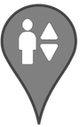
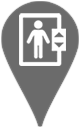
Preklad&zmena_nastaveni&uprava_ikon
- Přidán překlad pro angličtinu a slovenštinu
- Přidán popisek "FIXME I18N" u překladů, které házely chybu (asi posledních 5 překladů)
- Úprava ikon míst na mapě pro výtah, platformu, bránu a defaultní ikonu
- Úpraven vzhled nastavení (text je teď uprostřed, brava nastavena na oranžovo)

diff --git a/lib/screens/app/information_screen.dart b/lib/screens/app/information_screen.dart
@@ -26,13 +26,14 @@ class InformationScreen extends StatelessWidget {
         theme.textTheme.titleLarge!.copyWith(color: foregroundColor);
 
     String tooltipMessage() => Intl.message(
-          'Obnovit seznam míst',
+          AppLocalizations.of(context)!.languageSettingsTileLabel,
           name: 'InformationScreenState_tooltipMessage',
           args: [],
           desc: 'A tooltip for refresh button',
         );
 
-    String refreshDatabaseMessage() => Intl.message('Obnovuji databázi',
+    String refreshDatabaseMessage() => Intl.message(
+        AppLocalizations.of(context)!.refreshDatabaseMessage,
         name: 'InformationScreenState_refreshDatabaseMessage',
         args: [],
         desc: 'A snackbar message that informs user about database refresh');
@@ -40,7 +41,7 @@ class InformationScreen extends StatelessWidget {
     return Scaffold(
       appBar: AppBar(
         title: Center(
-          child: Text(AppLocalizations.of(context)!.settingsAppBarTitle),
+          child: Text(AppLocalizations.of(context)!.aboutApplicationLabel),
         ),
         actions: <Widget>[
           IconButton(
@@ -81,9 +82,11 @@ class InformationScreen extends StatelessWidget {
                               infoTile(
                                 context: context,
                                 leadingText:
-                                    'EuroKlíčenka je majetkem Přírodovědecké fakulty ',
-                                hyperText: 'Ostravské univerzity',
-                                trailingText: ' v\u{00A0}Ostravě.',
+                                    AppLocalizations.of(context)!.leadingText1,
+                                hyperText:
+                                    AppLocalizations.of(context)!.hyperText1,
+                                trailingText:
+                                    '${AppLocalizations.of(context)!.trailingText1a}${'\u{00A0}'}${AppLocalizations.of(context)!.trailingText1b}',
                                 imageFilePath: context.isAppInDarkMode
                                     ? 'assets/images/logo_prf_dark.png'
                                     : 'assets/images/logo_prf_light.png',
@@ -98,11 +101,11 @@ class InformationScreen extends StatelessWidget {
                               infoTile(
                                 context: context,
                                 leadingText:
-                                    'Vývoj nové aplikace provedl tým studentů z\u{00A0}',
+                                    '${AppLocalizations.of(context)!.leadingText2}${'\u{00A0}'}',
                                 hyperText:
-                                    'katedry informatiky a\u{00A0}počítačů',
+                                    '${'\u{00A0}'}${AppLocalizations.of(context)!.hyperText2}',
                                 trailingText:
-                                    ' OU, do kterého patří Barbora Hajíčková a\u{00A0}Ondřej Surý.  Vývoj původní aplikace provedl Jan Sonnek, Jan Kunetka a\u{00A0}Ondřej Sládek.',
+                                    '${AppLocalizations.of(context)!.trailingText2a}${'\u{00A0}'}${AppLocalizations.of(context)!.trailingText2b}${'\u{00A0}'}${AppLocalizations.of(context)!.trailingText2c}',
                                 imageFilePath: 'assets/images/logo_kip.png',
                                 launchURL: universityOfOstravaKIPURL,
                               ),
@@ -120,9 +123,10 @@ class InformationScreen extends StatelessWidget {
                                 ) =>
                                     infoTile(
                                   context: context,
-                                  leadingText:
-                                      'Data o umístění eurozámků jsou veřejně dostupná na ',
-                                  hyperText: 'oficiálních stránkách Euroklíče',
+                                  leadingText: AppLocalizations.of(context)!
+                                      .leadingText3,
+                                  hyperText:
+                                      AppLocalizations.of(context)!.hyperText3,
                                   imageFilePath:
                                       'assets/images/logo_eurokey.png',
                                   launchURL: aboutEuroKeyWebURL,
@@ -142,10 +146,10 @@ class InformationScreen extends StatelessWidget {
                 thickness: 0.5,
               ),
               const SizedBox(height: 1),
-              const Text(
-                'Copyright © Ostravská univerzita',
+              Text(
+                AppLocalizations.of(context)!.copyrightLabel,
                 textAlign: TextAlign.left,
-                style: TextStyle(
+                style: const TextStyle(
                   fontSize: 12,
                 ),
               ),

diff --git a/lib/screens/app/settings_screen.dart b/lib/screens/app/settings_screen.dart
@@ -28,6 +28,7 @@ class _SettingsScreenState extends State<SettingsScreen> {
     // _initIntl();
   }
 
+  // ignore: unused_element
   Future<void> _initIntl() async {
     final Locale appLocale = Localizations.localeOf(context);
     await initializeDateFormatting(appLocale.toString());
@@ -84,16 +85,18 @@ class _SettingsScreenState extends State<SettingsScreen> {
               ],
             ),
             SettingsSection(
-              title: const Text("Aplikace"), // FIXME i18n
+              title: Text(AppLocalizations.of(context)!.applicationLabel),
               tiles: [
                 SettingsTile.navigation(
-                  title: const Text("Průvodce aplikací"), // FIXME i18n
+                  title:
+                      Text(AppLocalizations.of(context)!.applicationGuideLabel),
                   onPressed: (context) async {
                     await Navigator.of(context).pushNamed("/guide");
                   },
                 ),
                 SettingsTile.navigation(
-                  title: const Text("O aplikaci"), // FIXME i18n
+                  title:
+                      Text(AppLocalizations.of(context)!.aboutApplicationLabel),
                   onPressed: (context) async {
                     await Navigator.of(context).push(
                       MaterialPageRoute(
@@ -105,11 +108,10 @@ class _SettingsScreenState extends State<SettingsScreen> {
               ],
             ),
             SettingsSection(
-              title: const Text("Zdroj dat"),
+              title: Text(AppLocalizations.of(context)!.dataSourceLabel),
               tiles: [
                 SettingsTile.navigation(
-                  title: const Text(
-                      "Datum poslední aktualizace databáze"), // FIXME i18n
+                  title: Text(AppLocalizations.of(context)!.dateOfUpdate),
                   value: Consumer<EurolockProvider>(
                     builder: (
                       context,
@@ -120,6 +122,10 @@ class _SettingsScreenState extends State<SettingsScreen> {
                           .format(eurolockProvider.lastModified);
                       return Text(
                         lastModified,
+                        textAlign: TextAlign.center,
+                        style: const TextStyle(
+                          fontSize: 12,
+                        ),
                       );
                     },
                   ),
@@ -138,8 +144,12 @@ class _SettingsScreenState extends State<SettingsScreen> {
 
     return Scaffold(
       appBar: AppBar(
-        title: Text(AppLocalizations.of(context)!.settingsLabel,
-            textAlign: TextAlign.center),
+        title: Text(AppLocalizations.of(context)!.settingsLabel),
+        backgroundColor: const Color.fromARGB(245, 255, 107, 38),
+        foregroundColor: const Color.fromARGB(255, 255, 255, 255),
+        elevation: 5.5,
+        shadowColor: const Color.fromARGB(255, 209, 209, 209),
+        centerTitle: true,
       ),
       body: settingsList(),
     );
@@ -159,14 +169,19 @@ class LanguagePickerScreen extends StatelessWidget {
   @override
   Widget build(BuildContext context) {
     return Scaffold(
-      appBar: AppBar(title: const Text('Languages')), // FIXME i18n
+      appBar: AppBar(
+        title: Text(AppLocalizations.of(context)!.languagesLabel),
+        backgroundColor: const Color.fromARGB(245, 255, 107, 38),
+        foregroundColor: const Color.fromARGB(255, 255, 255, 255),
+        elevation: 5.5,
+        shadowColor: const Color.fromARGB(255, 209, 209, 209),
+        centerTitle: true,
+      ),
       body: SettingsList(
         sections: [
           SettingsSection(
-            title: const Text('Select the language you want'), // FIXME i18n
             tiles: languages.keys.map((e) {
               final language = languages[e];
-
               return SettingsTile(
                 title: Text(language!),
                 onPressed: (_) {

diff --git a/lib/screens/intro_guide_screen.dart b/lib/screens/intro_guide_screen.dart
@@ -6,6 +6,7 @@ import 'package:eurokey2/features/internet_access/allowed_urls.dart';
 import 'package:eurokey2/features/internet_access/http_communicator.dart';
 import 'package:eurokey2/providers/preferences_provider.dart';
 import 'package:eurokey2/utils/build_context_extensions.dart';
+import 'package:flutter_gen/gen_l10n/app_localizations.dart';
 import 'package:flutter/material.dart';
 import 'package:introduction_screen/introduction_screen.dart';
 import 'package:provider/provider.dart';
@@ -24,46 +25,42 @@ class _OnBoardScreenState extends State<GuideScreen> {
       child: IntroductionScreen(
         pages: [
           PageViewModel(
-            title: 'VÍTEJTE V EUROKLÍČENCE',
+            title: AppLocalizations.of(context)!.welcomeGuidLabel,
             image: _buildImage('assets/images/logo_key.png', context),
-            body:
-                'Díky této aplikace máte možnost najít \nv České republice všechna eurozámkem osazená sociální zařízení.',
+            body: AppLocalizations.of(context)!.body1GuidLabel,
             footer: _buildButton(
               onPressed: () => openURL(url: aboutEuroKeyURL),
-              text: 'Co je to eurozámek?',
+              text: AppLocalizations.of(context)!.whatIsEurokeyringGuidLabel,
             ),
             decoration: _getDecoration(),
           ),
           PageViewModel(
-            title: 'MAPA',
+            title: AppLocalizations.of(context)!.mapTitleGuid,
             image: _buildImage(
               context.isAppInDarkMode
                   ? 'assets/images/img_guide_map_dark.jpg'
                   : 'assets/images/img_guide_map_light.jpg',
               context,
             ),
-            body:
-                'Po spuštění aplikace se zobrazí mapa nejbližšího okolí, na němž jsou vyznačena místa pro Euroklíč.',
+            body: AppLocalizations.of(context)!.body2GuidLabel,
             footer: _buildButton(onPressed: null, text: ''),
             decoration: _getDecoration(),
           ),
           PageViewModel(
-            title: 'INFORMACE O MÍSTĚ',
+            title: AppLocalizations.of(context)!.infoGuidLabel,
             image: _buildImage(
               context.isAppInDarkMode
                   ? 'assets/images/img_guide_popup_dark.jpg'
                   : 'assets/images/img_guide_popup_light.jpg',
               context,
             ),
-            body:
-                'Po kliknutí na jeden z bodů se zobrazí informační okno s možností navigovat\nk danému místu.',
+            body: AppLocalizations.of(context)!.body3GuidLabel,
             footer: _buildButton(onPressed: null, text: ''),
             decoration: _getDecoration(),
           ),
           PageViewModel(
-            title: 'NEJBLIŽŠÍ MÍSTA',
-            body:
-                'Na listě lokací se zobrazují nejbližší místa \nk aktuální poloze uživatele. Volbou položky dojde k jejímu zobrazení na mapě.',
+            title: AppLocalizations.of(context)!.nearplacesGuidTitle,
+            body: AppLocalizations.of(context)!.body4GuidLabel,
             image: _buildImage(
               context.isAppInDarkMode
                   ? 'assets/images/img_guide_list_dark.jpg'
@@ -75,13 +72,17 @@ class _OnBoardScreenState extends State<GuideScreen> {
           ),
         ],
         animationDuration: 150,
-        done: const Text("Start"),
+        done: Text(
+          AppLocalizations.of(context)!.startLabel,
+        ),
         onDone: () => _gotoHome(context),
         next: const Icon(Icons.arrow_forward),
 
         // showing skip button
         showSkipButton: true,
-        skip: const Text("Skip"),
+        skip: Text(
+          AppLocalizations.of(context)!.skipLabel,
+        ),
         onSkip: () => _gotoHome(context),
         dotsDecorator: _getDotDecoration(context),
         isProgressTap: false,

diff --git a/lib/providers/location_provider.dart b/lib/providers/location_provider.dart
@@ -50,17 +50,17 @@ class LocationProvider with ChangeNotifier {
   }
 
   String disabledLocationServicesMessage() => Intl.message(
-        'Polohové služby jsou vypnuty.',
+        'Polohové služby jsou vypnuty.', // FIXME I18N
         name: 'LocationProvider_disabledLocationServicesMessage',
       );
 
   String deniedLocationServicesMessage() => Intl.message(
-        'Přístup k polohovým službám byl odmítnut.',
+        'Přístup k polohovým službám byl odmítnut.', // FIXME I18N
         name: 'LocationProvider_deniedLocationServicesMessage',
       );
 
   String permanentlyDeniedLocationServicesMessage() => Intl.message(
-        'Přístup k polohovým službám byl natrvalo odmítnut.',
+        'Přístup k polohovým službám byl natrvalo odmítnut.', // FIXME I18N
         name: 'LocationProvider_permanentlyDeniedLocationServicesMessage',
       );
 

diff --git a/lib/screens/splash_screen.dart b/lib/screens/splash_screen.dart
@@ -3,6 +3,7 @@
 // SPDX-License-Identifier: MPL-2.0
 
 import 'package:flutter/material.dart';
+import 'package:flutter_gen/gen_l10n/app_localizations.dart';
 
 class SplashScreen extends StatelessWidget {
   const SplashScreen({super.key});
@@ -27,10 +28,8 @@ class SplashScreen extends StatelessWidget {
                   ),
                 ),
               SizedBox(height: screenHeight * 0.02),
-              const Text(
-                'EuroKlíčenka', // FIXME
-                textScaler: TextScaler.linear(2),
-              ),
+              Text(AppLocalizations.of(context)!.eurokeyLabel,
+                  textScaler: const TextScaler.linear(2)),
               SizedBox(height: screenHeight * 0.1),
               const CircularProgressIndicator(),
               const SizedBox(height: 16),

diff --git a/lib/features/internet_access/http_communicator.dart b/lib/features/internet_access/http_communicator.dart
@@ -8,6 +8,6 @@ import 'package:url_launcher/url_launcher.dart';
 ///Open the [url] in an external browser.
 Future<void> openURL({required String url}) async {
   if (!await launchUrl(Uri.parse(url))) {
-    showSnackBar(message: "'$url' nemohla být otevřena.");
+    showSnackBar(message: "'$url' nemohla být otevřena."); // FIXME I18N
   }
 }

diff --git a/lib/screens/app/list_screen.dart b/lib/screens/app/list_screen.dart
@@ -95,7 +95,7 @@ class _ListScreenState extends State<ListScreenBody> {
   }
 
   String loadingDataMessage() => Intl.message(
-        'Nahrávám data',
+        AppLocalizations.of(context)!.uploadingdataMessage,
         name: 'ListScreen_loadingDataMessage',
         args: [],
         desc: 'Simple indicator that we are loading data',

diff --git a/lib/providers/eurolock_provider.dart b/lib/providers/eurolock_provider.dart
@@ -81,7 +81,7 @@ class EurolockProvider extends ChangeNotifier {
   }
 
   String navigateButtonText() => Intl.message(
-        'NAVIGOVAT',
+        'NAVIGOVAT', // FIXME I18N
         name: 'EurolockProvider_navigateButtonText',
       );
 
